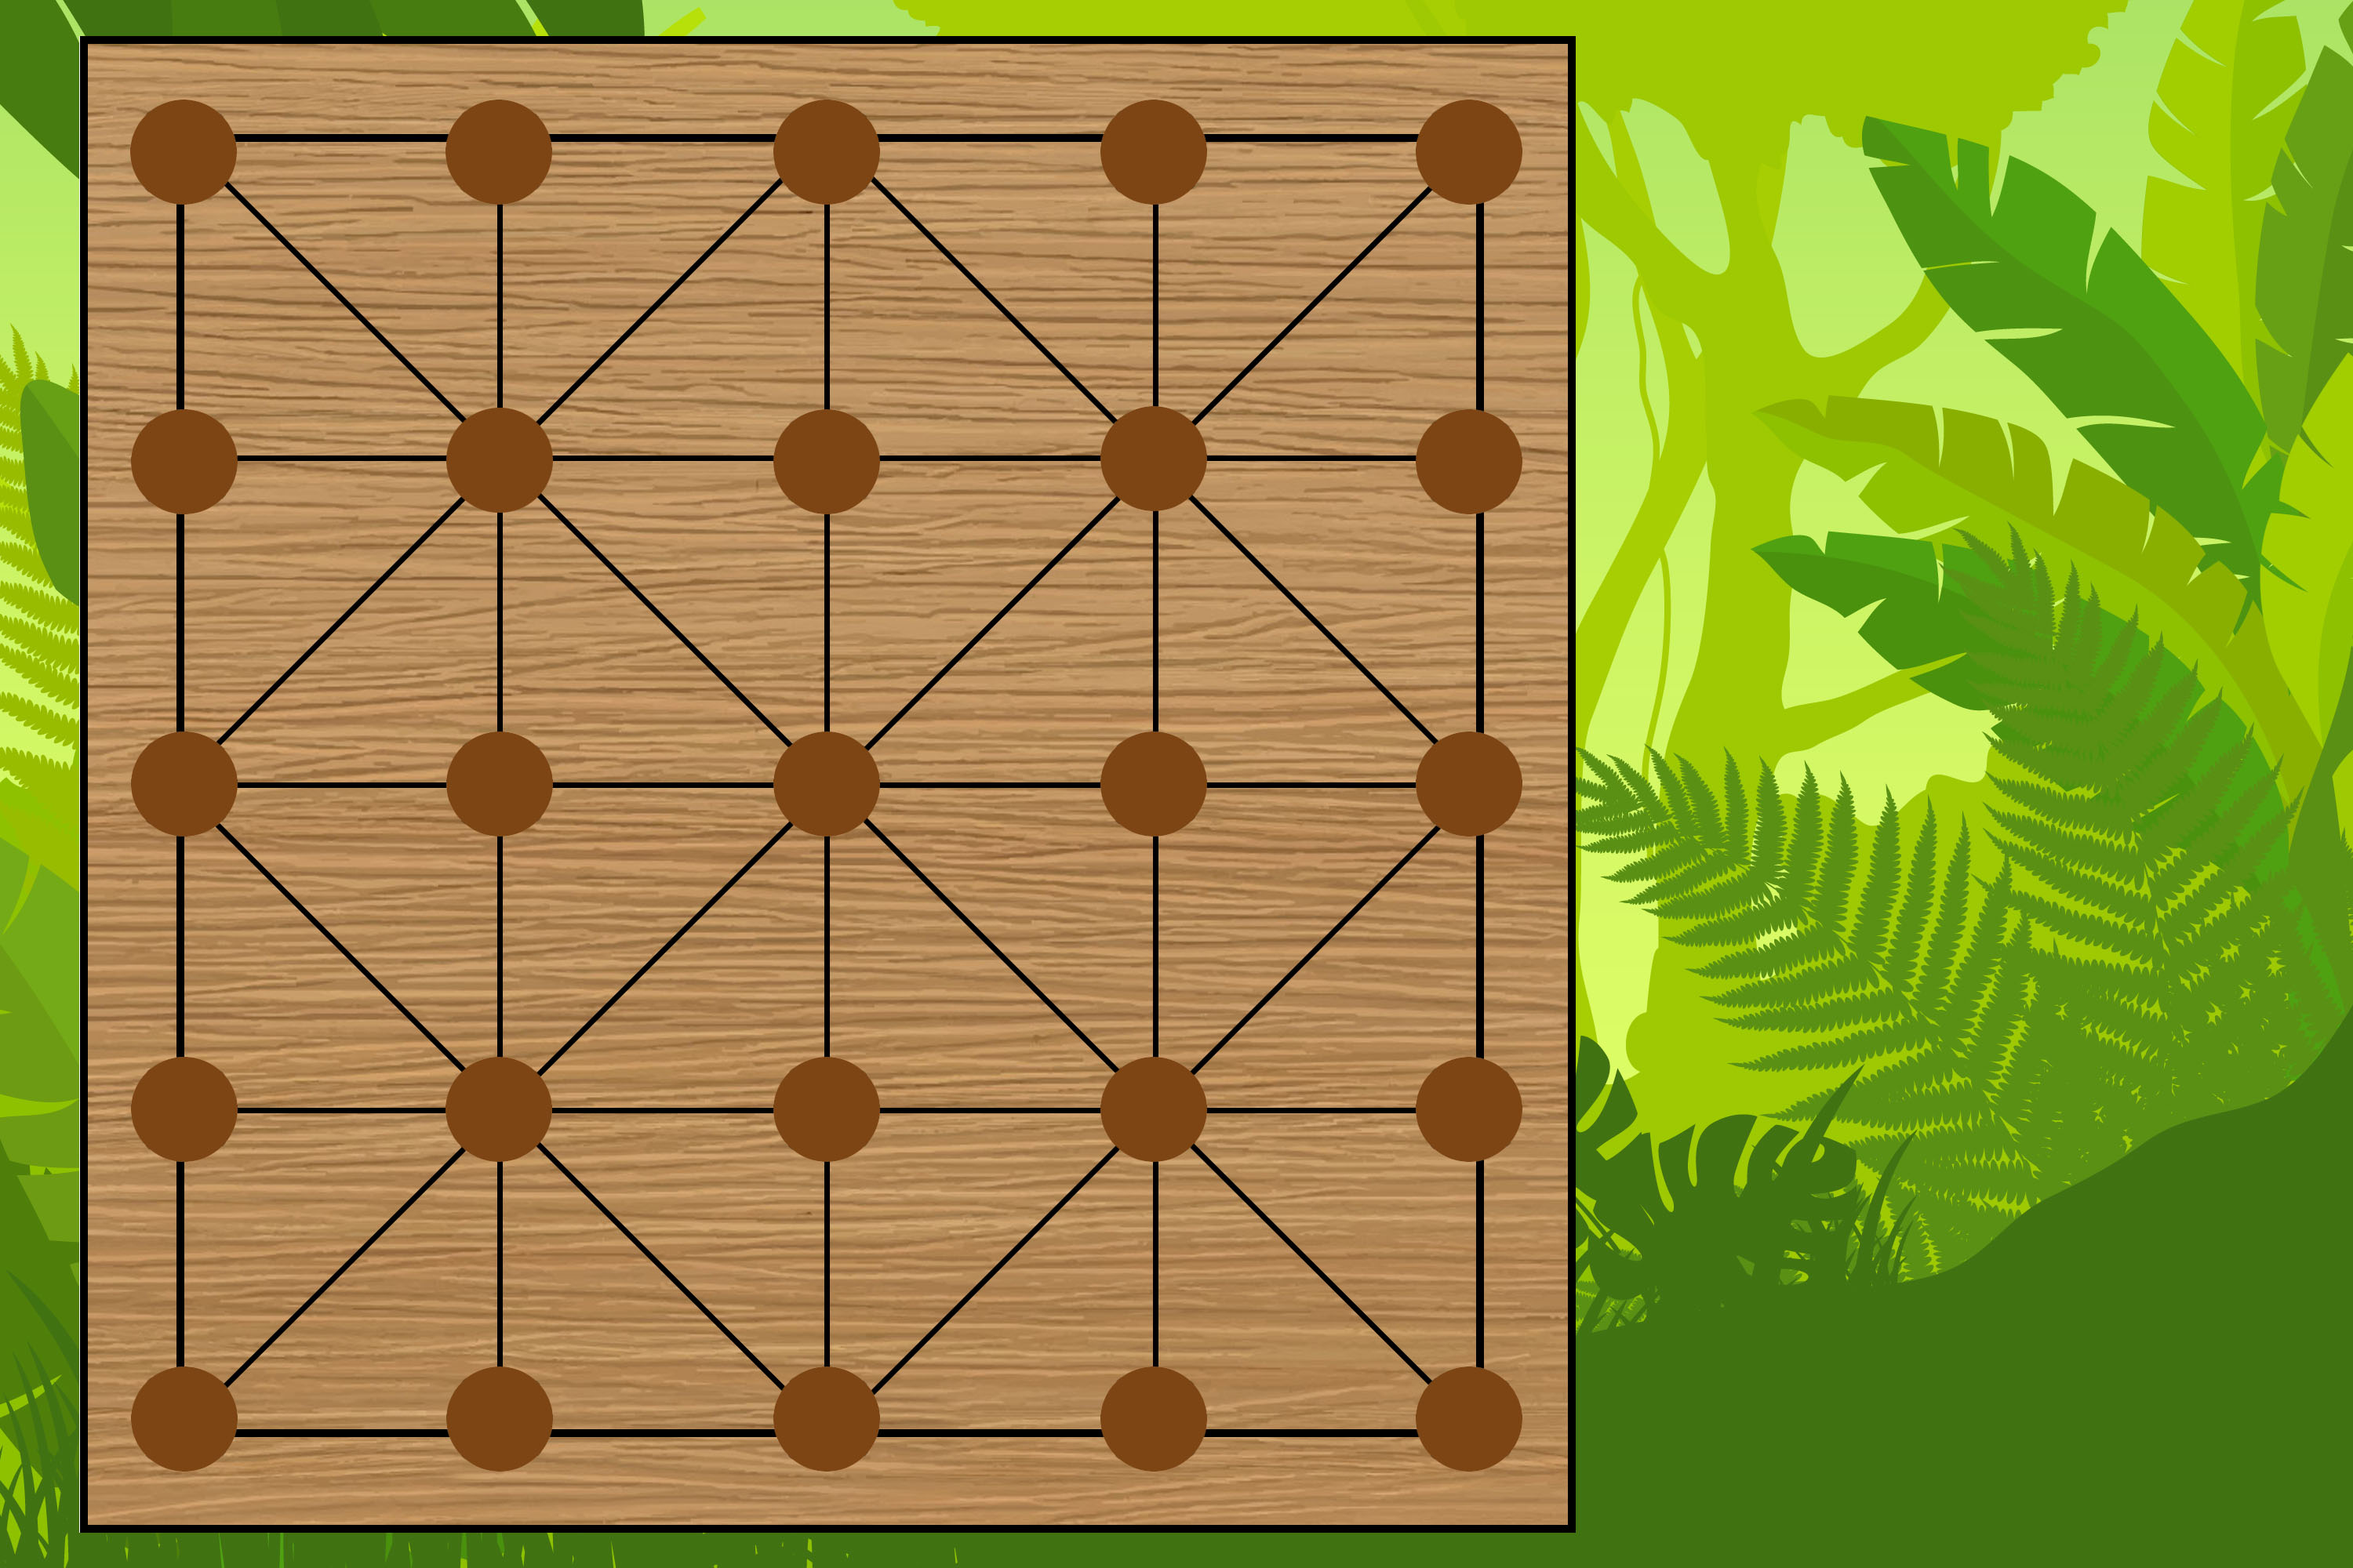
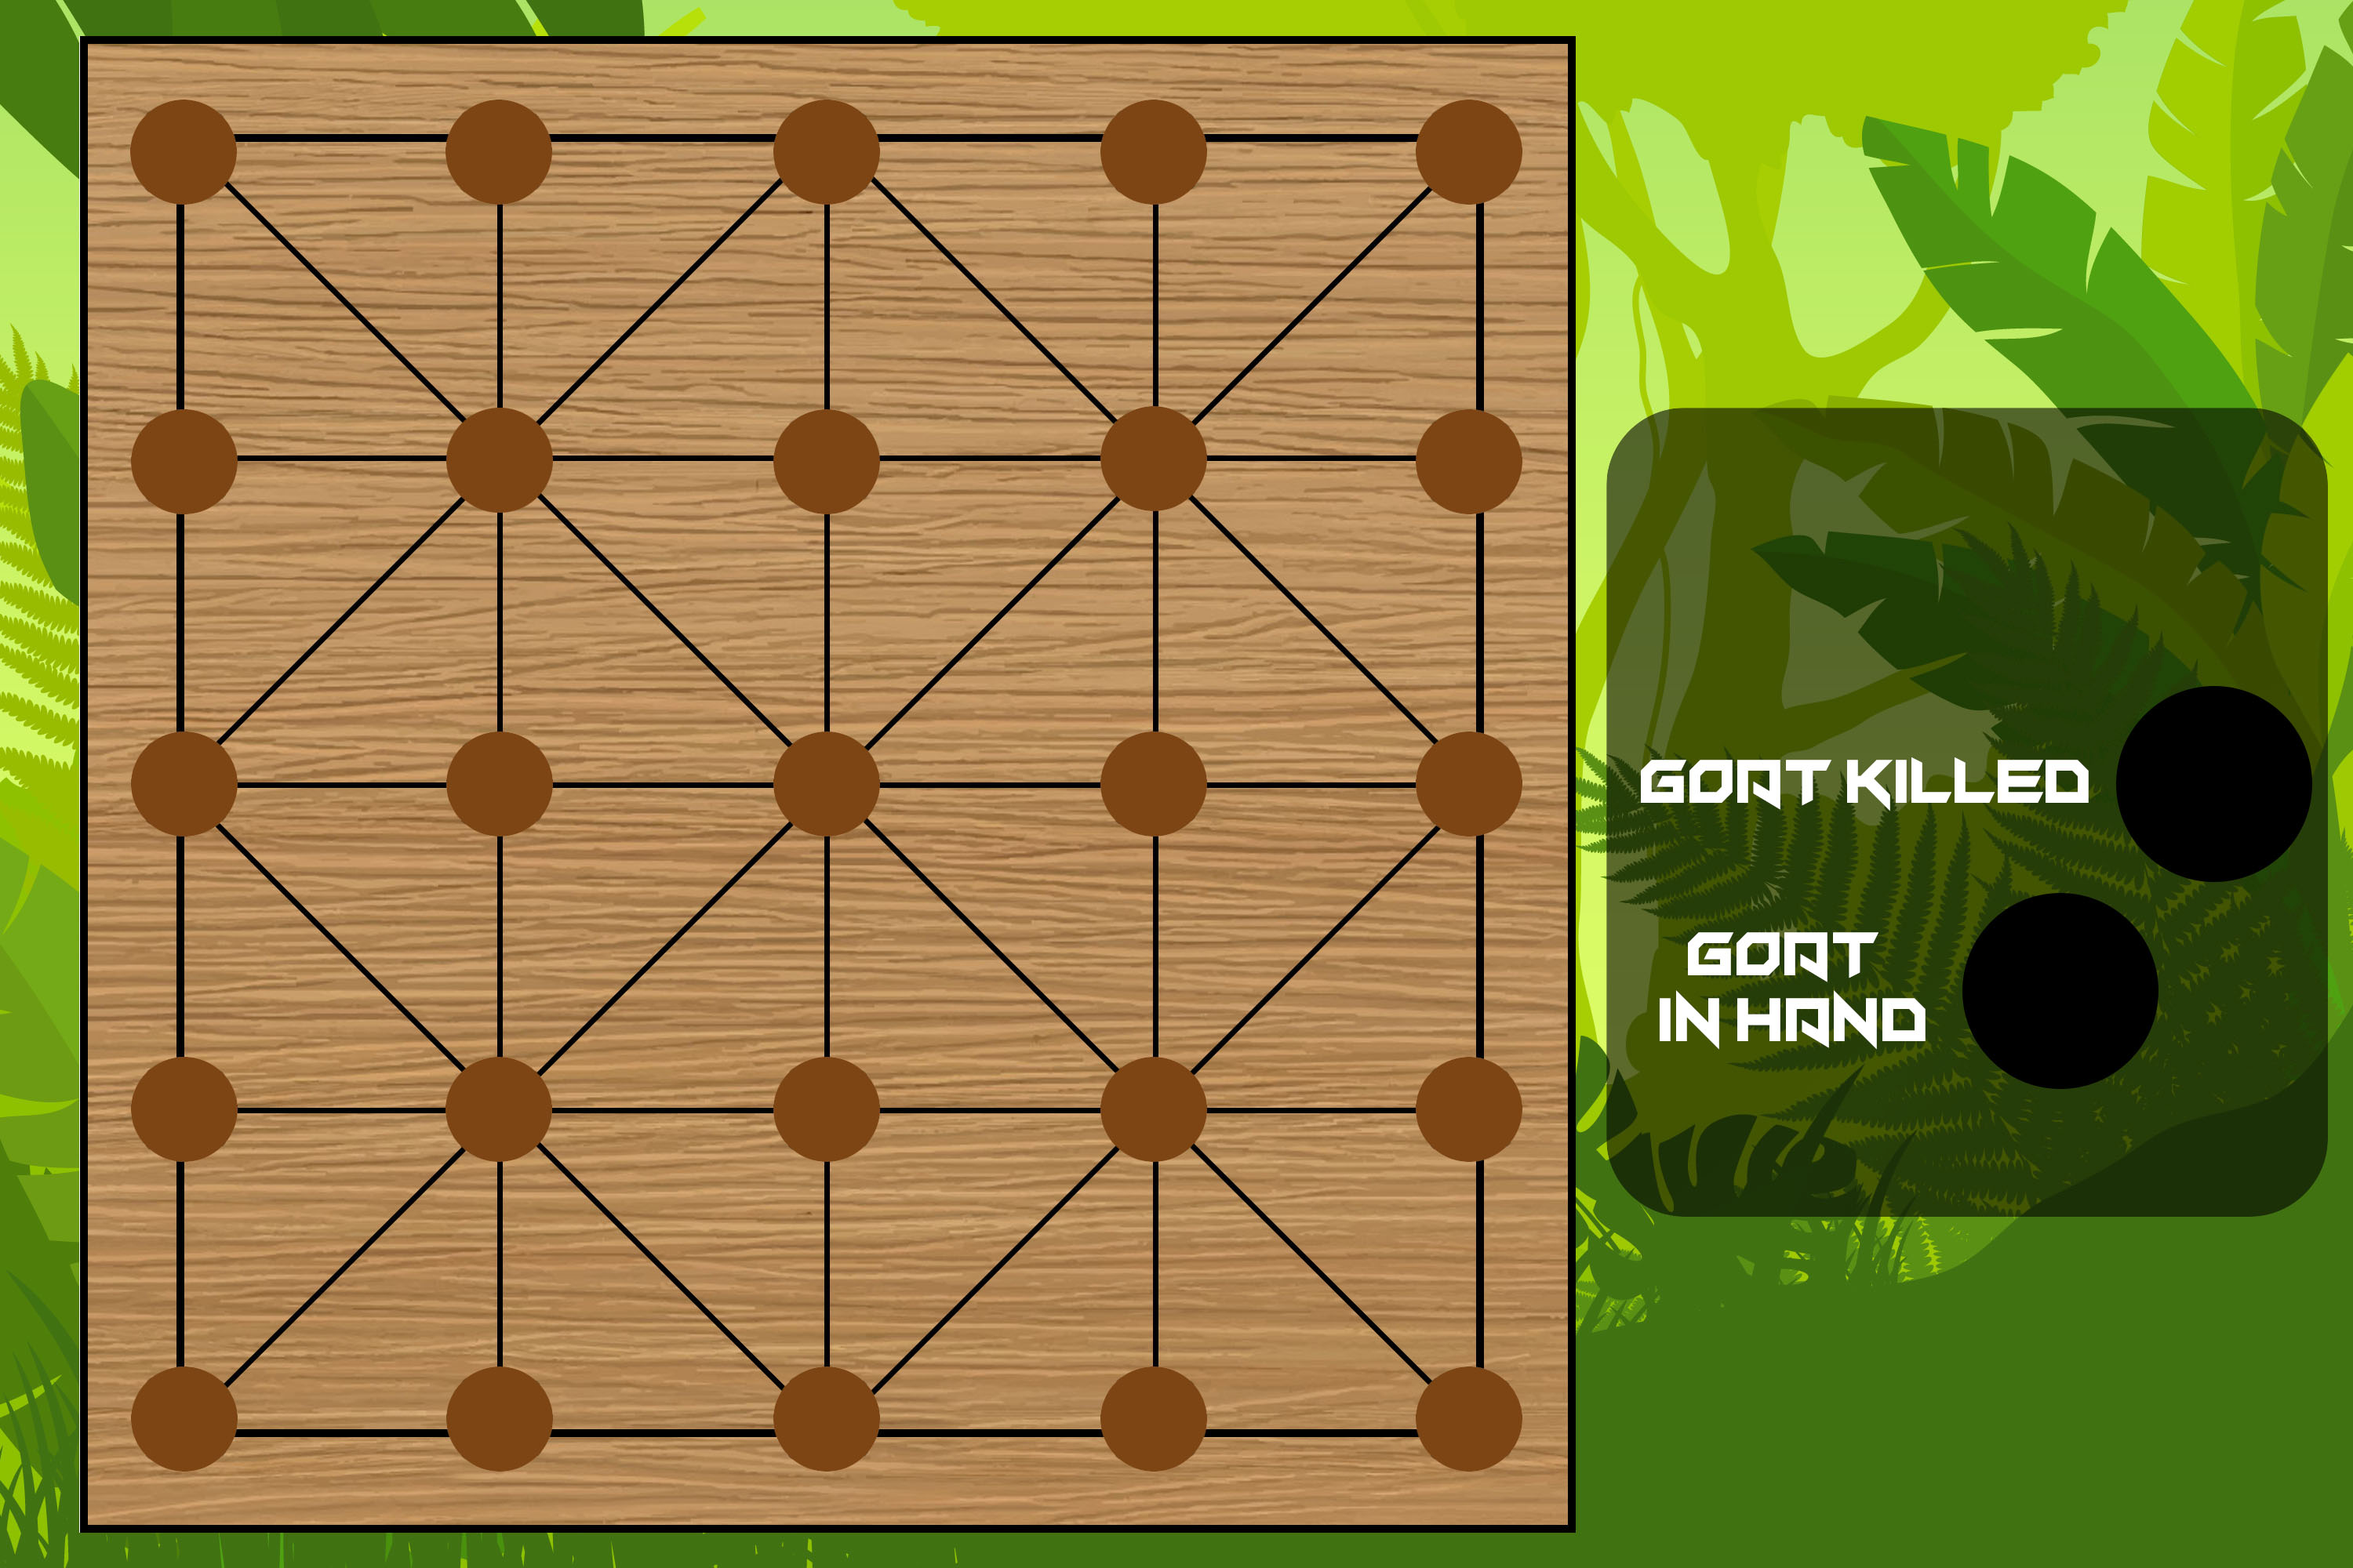
UI improved

Changed region(s): [[0.682, 0.248, 0.992, 0.775]]

diff --git a/src/Mainmenu.cpp b/src/Mainmenu.cpp
@@ -13,14 +13,12 @@ void MainMenu::LoadMenu()//Renders window
     {
         window.clear(sf::Color::White);
         window.draw(menuImage);
-        for (int i = 0; i < 3; i++)
+        for(int i=0;i<3;i++)
         {
-            menu[i].setFillColor(i == selectedItem ? sf::Color::Red : sf::Color::Black);
             window.draw(menu[i]);
         }
         window.display();
     }
-
 }
 
 
@@ -29,10 +27,6 @@ MainMenu::MainMenu(unsigned int width,unsigned int height)
 
 {
     window.create(sf::VideoMode(width,height),"Baagchaal",sf::Style::Default);
-    selectedItem=0,
-    isPressedUp=false;
-    isPressedDown=false;
-    isPressedReturn=false;
     enterAbout=false;
     width=width;
     height=height;
@@ -59,11 +53,17 @@ MainMenu::MainMenu(unsigned int width,unsigned int height)
     menu[2].setString("Exit");
     menuTexture.loadFromFile("../Media/Images/baaghchaal.jpg");
     aboutTexture.loadFromFile("../Media/Images/about.jpg");
+    backButtonTexture.loadFromFile("../Media/Images/backButton.png");
     menuImage.setTexture(&menuTexture);
     aboutImage.setTexture(&aboutTexture);
+    backButtonImage.setTexture(&backButtonTexture);
     menuImage.setPosition(0,0);
     menuImage.setSize(sf::Vector2f(1377,720));//size of the image
     aboutImage.setSize(sf::Vector2f(1377,720));
+    backButtonImage.setPosition(1190,25);
+    backButtonImage.setSize(sf::Vector2f(150,70));
+
+
     std::string detail;
     std::fstream aboutFile;
     aboutFile.open(("../about.txt"));
@@ -86,78 +86,56 @@ void MainMenu::processEvents()
     sf::Event event;
     while (window.pollEvent(event))
     {
-        switch (event.type)
+        if (event.type == sf::Event::Closed)
         {
-            case sf::Event::KeyPressed:
-                handlePlayerInput(event.key.code,true);
-                break;
-            case sf::Event::KeyReleased:
-                handlePlayerInput(event.key.code, false);
-                break;
-            case sf::Event::Closed:
+            window.close();
+        }
+
+        sf::Vector2i mouse;
+        mouse=sf::Mouse::getPosition(window);
+        if(menu[0].getGlobalBounds().contains(mouse.x,mouse.y))//checks if the mouse co-ordinates is in text boundary
+        {
+            menu[0].setFillColor(sf::Color::Red);
+            if (sf::Mouse::isButtonPressed(sf::Mouse::Left)) {
                 window.close();
-                break;
+                Game game(1377,720);
+                game.run();
+
+            }
+        }
+
+        else if(menu[1].getGlobalBounds().contains(mouse.x,mouse.y))//checks if the mouse co-ordinates is in text boundary
+        {
+            menu[1].setFillColor(sf::Color::Red);
+            if (sf::Mouse::isButtonPressed(sf::Mouse::Left)) {
+                enterAbout=true;
+                about();
+                std::cout<<"about"<<std::endl;
+
+            }
+        }
+        else if(menu[2].getGlobalBounds().contains(mouse.x,mouse.y))//checks if the mouse co-ordinates is in text boundary
+        {
+            menu[2].setFillColor(sf::Color::Red);
+            if (sf::Mouse::isButtonPressed(sf::Mouse::Left)) {
+               window.close();
+            }
+        }
+        else if(backButtonImage.getGlobalBounds().contains(mouse.x,mouse.y) and enterAbout)
+        {
+            if (sf::Mouse::isButtonPressed(sf::Mouse::Left)) {
+               enterAbout=false;
+            }
+        }
+        else
+        {
+            menu[0].setFillColor(sf::Color::Black);
+            menu[1].setFillColor(sf::Color::Black);
+            menu[2].setFillColor(sf::Color::Black);
         }
     }
 }
 
-
-void MainMenu::handlePlayerInput(sf::Keyboard::Key & key, bool isPressed)
-{
-    switch (key){
-        case sf::Keyboard::Up:
-            isPressedUp=isPressed;
-            break;
-        case sf::Keyboard::Down:
-            isPressedDown=isPressed;
-            break;
-        case sf::Keyboard::Return:
-            isPressedReturn=isPressed;
-            break;
-        case sf::Keyboard::Escape:
-            enterAbout = false;
-            break;
-    }
-    update();
-}
-
-void MainMenu::update()
-{
-
-    if(isPressedUp)
-        MoveUp(true);
-    if(isPressedDown)
-        MoveUp(false);
-     if(isPressedReturn)
-          onPressEnter();
-}
-
-void MainMenu::MoveUp(bool goUp=true)
-{
-    if (goUp and selectedItem != 0)
-        selectedItem--;
-    else if(not goUp and selectedItem!=2)
-        selectedItem++;
-}
-void MainMenu::onPressEnter()
-{
-    if(selectedItem==1)
-    {
-        enterAbout=true;
-        about();
-    }
-    else if(selectedItem==0)
-    {
-        window.close();
-        Game game(1377,720);
-        game.run();
-    }
-    else
-    {
-        quitGame quit;
-        quit.gameExit(window);
-    }
-}
  void MainMenu::run()
  {
      while (window.isOpen())
@@ -168,9 +146,12 @@ void MainMenu::onPressEnter()
  }
 void MainMenu::about()
 {
-    window.clear(sf::Color::White);
-    window.draw(aboutImage);
-    window.draw(aboutText);
-    window.display();
-
+    if(enterAbout)
+    {
+        window.clear(sf::Color::White);
+        window.draw(aboutImage);
+        window.draw(aboutText);
+        window.draw(backButtonImage);
+        window.display();
+    }
 }

diff --git a/includes/MainMenu.h b/includes/MainMenu.h
@@ -12,28 +12,24 @@ private:
     unsigned width,height;
     sf::Font font;
     sf::Text menu[3],headline;
-    sf::Texture menuTexture,aboutTexture;
-    sf::RectangleShape menuImage,aboutImage;
-    sf::Text myMenu[3];
-    int selectedItem=0;
-    bool isPressedUp, isPressedDown, isPressedReturn, enterAbout=false;
+    sf::Texture menuTexture,aboutTexture,backButtonTexture;
+    sf::RectangleShape menuImage,aboutImage,backButtonImage;
+    bool enterAbout=false;
     sf::Text aboutText;
     std::string aboutTextString;
 
 private:
     void LoadMenu();
     void processEvents();
-    void handlePlayerInput(sf::Keyboard::Key &key, bool isPressed);
-    void update();
-    void MoveUp(bool goUp);
-    void onPressEnter();
     void about();
+
 
 
 
 public:
     void run();
     MainMenu(unsigned , unsigned );
+
 
 protected:
     sf::RenderWindow window;

diff --git a/src/LoadBoard.cpp b/src/LoadBoard.cpp
@@ -29,11 +29,13 @@ Board::Board() //Constructor
     tigerText.setStyle(sf::Text::Bold);
     tigerText.setString("TIGER'S TURN");
     goatText.setString("GOAT'S TURN");
+    tigerText.setCharacterSize(42);
+    goatText.setCharacterSize(42);
     tigerText.setFillColor(sf::Color::Red);
     goatText.setFillColor(sf::Color::Red);
     goatWinText.setString("Goat wins!");
-    tigerText.setPosition(1000,300);
-    goatText.setPosition(1000,300);
+    tigerText.setPosition(965,225);
+    goatText.setPosition(980,225);
     goatWinText.setPosition(1000,400);
     isReleased=false;
     isMove=false;
